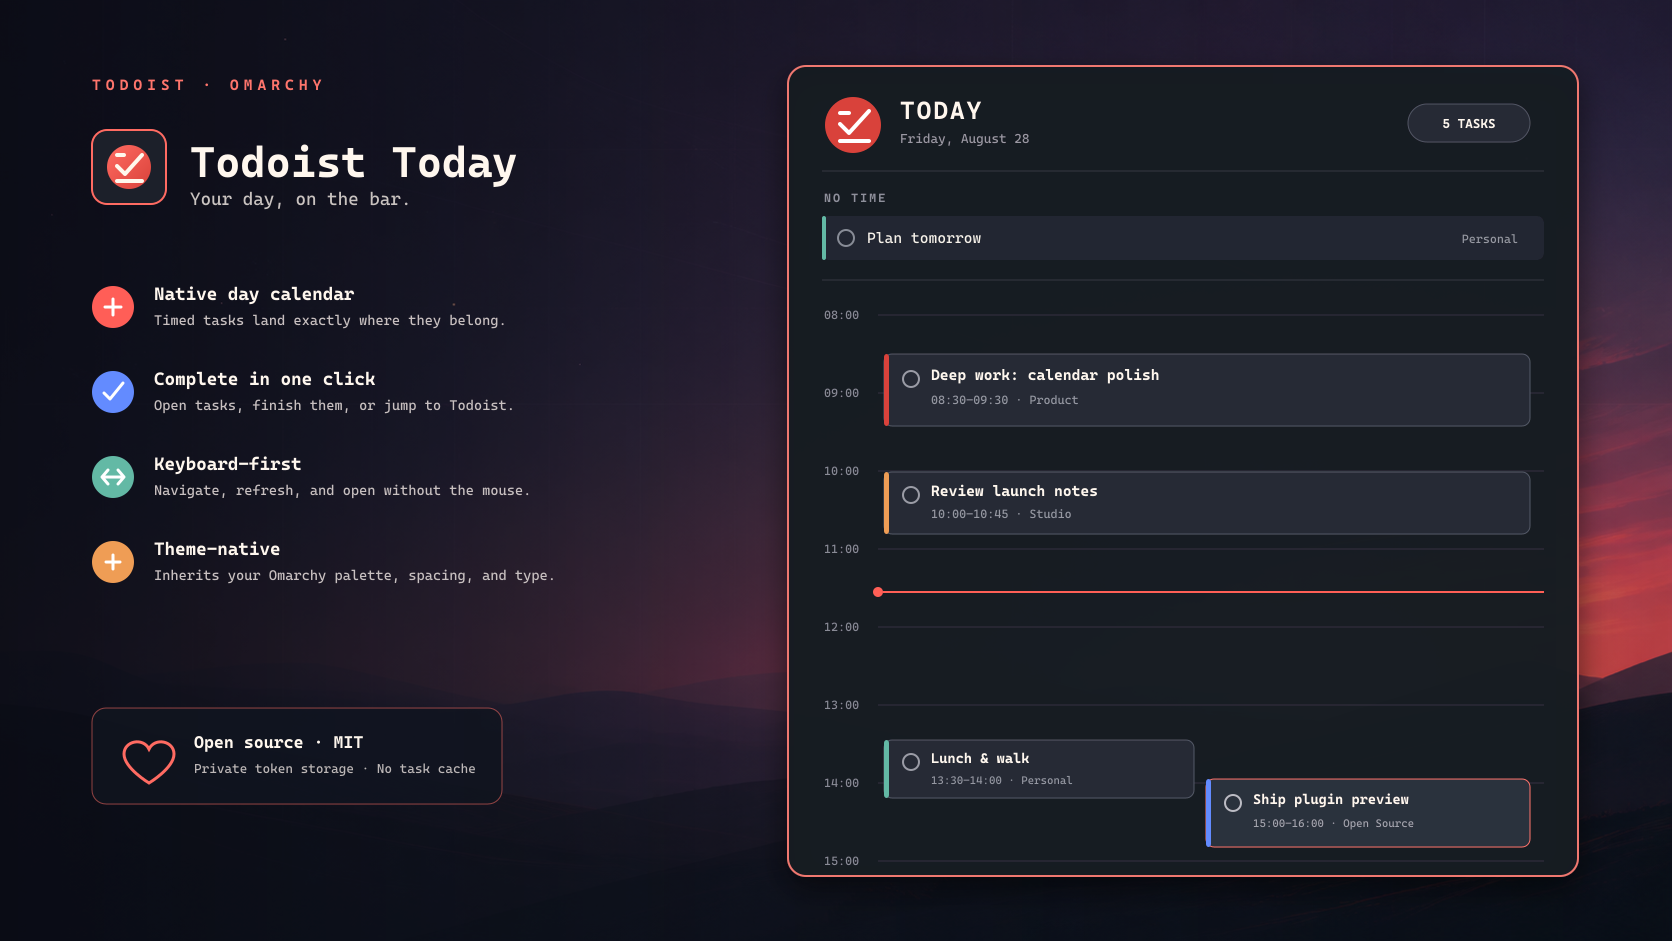
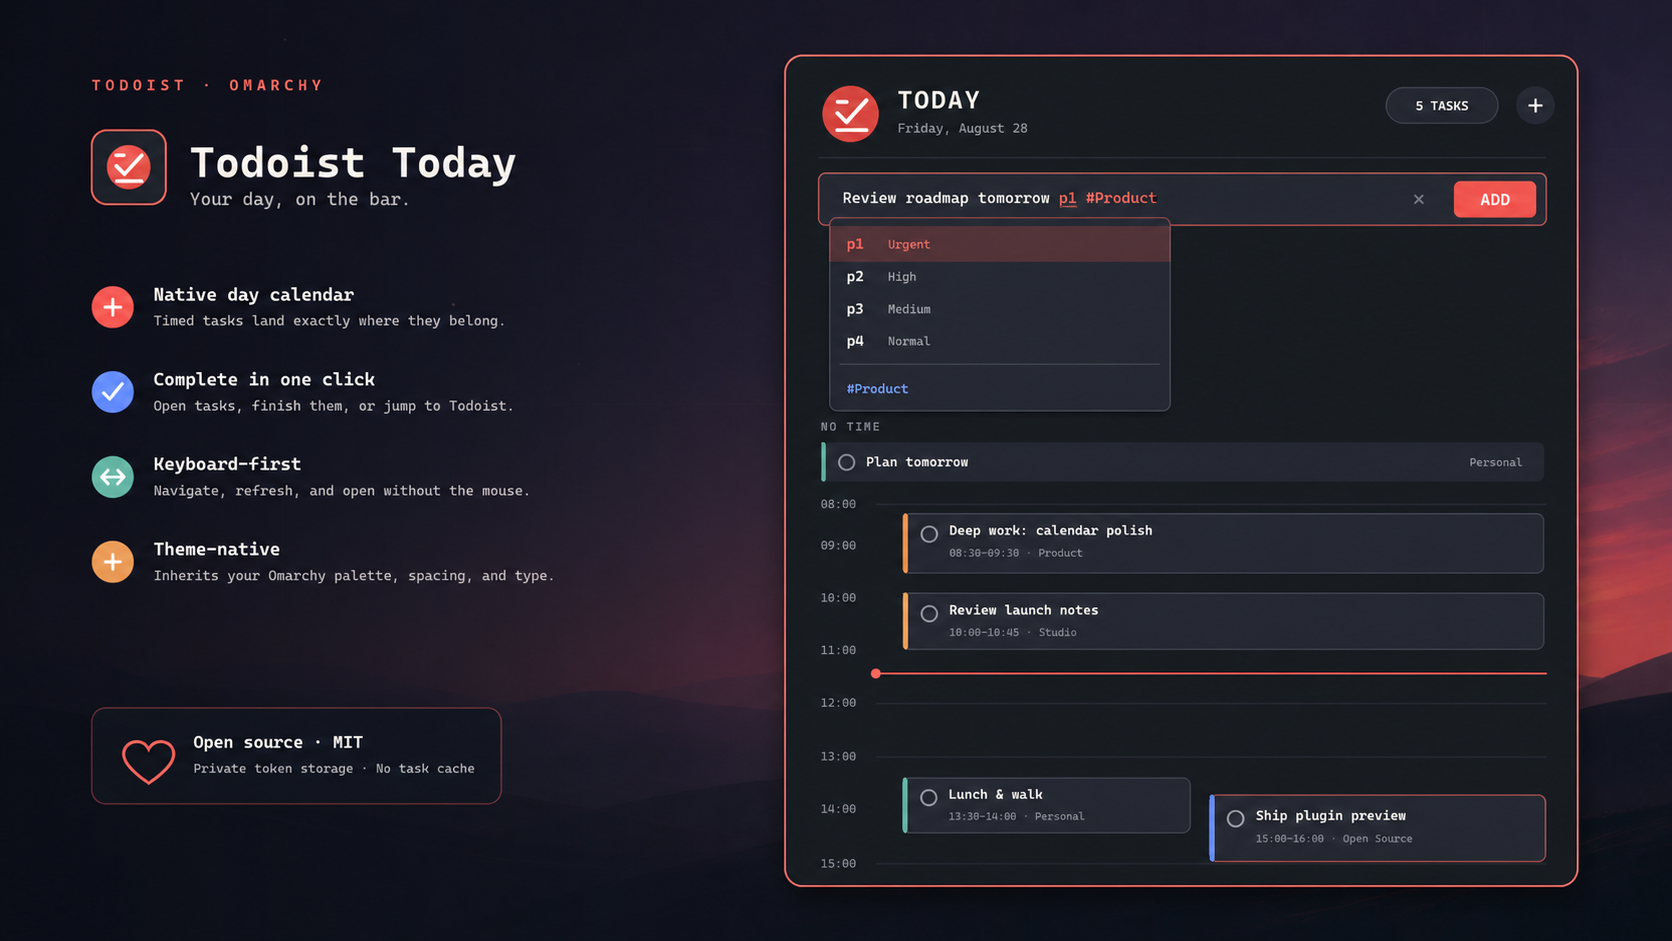
Add Quick Add autocomplete suggestions

diff --git a/Panel.qml b/Panel.qml
@@ -27,6 +27,12 @@ Panel {
   property bool quickAddOpen: false
   property bool quickAdding: false
   property string quickAddError: ""
+  property var quickAddProjects: []
+  property bool quickAddProjectsLoaded: false
+  property bool quickAddProjectsLoading: false
+  property var quickAddSuggestions: []
+  property int quickAddSuggestionIndex: 0
+  property int quickAddFragmentStart: 0
   property date now: new Date()
 
   readonly property int taskCount: tasks.length
@@ -140,7 +146,95 @@ Panel {
   function toggleQuickAdd() {
     root.quickAddOpen = !root.quickAddOpen
     root.quickAddError = ""
-    if (root.quickAddOpen) Qt.callLater(function() { quickAddField.forceActiveFocus() })
+    if (root.quickAddOpen) {
+      root.loadQuickAddProjects()
+      Qt.callLater(function() { quickAddField.forceActiveFocus() })
+    } else {
+      root.quickAddSuggestions = []
+    }
+  }
+
+  function quickAddHelperPath() {
+    return root.helperPath.replace(/todoist$/, "quick-add")
+  }
+
+  function loadQuickAddProjects() {
+    if (root.quickAddProjectsLoaded || root.quickAddProjectsLoading) return
+    root.quickAddProjectsLoading = true
+    quickAddProjectsProcess.command = [root.quickAddHelperPath(), "projects"]
+    quickAddProjectsProcess.running = true
+  }
+
+  function acceptQuickAddProjects(raw) {
+    try {
+      var payload = JSON.parse(String(raw || ""))
+      if (payload.ok !== true || !Array.isArray(payload.projects)) {
+        root.quickAddError = String(payload.message || "Could not load projects")
+        return
+      }
+      root.quickAddProjects = payload.projects
+      root.quickAddProjectsLoaded = true
+      root.updateQuickAddSuggestions()
+    } catch (e) {
+      root.quickAddError = "Could not read td projects"
+    }
+  }
+
+  function updateQuickAddSuggestions() {
+    var cursor = quickAddField.cursorPosition
+    var before = String(quickAddField.text || "").slice(0, cursor)
+    var match = before.match(/(?:^|\s)([#p][^\s]*)$/i)
+    var output = []
+    if (!match) {
+      root.quickAddSuggestions = output
+      return
+    }
+    var fragment = match[1]
+    root.quickAddFragmentStart = cursor - fragment.length
+    var lower = fragment.toLowerCase()
+    if (/^p[1-4]?$/.test(lower)) {
+      var priorities = [
+        { value: "p1", label: "p1  Urgent" },
+        { value: "p2", label: "p2  High" },
+        { value: "p3", label: "p3  Medium" },
+        { value: "p4", label: "p4  Normal" }
+      ]
+      for (var p = 0; p < priorities.length; p++)
+        if (priorities[p].value.indexOf(lower) === 0) output.push(priorities[p])
+    } else if (fragment.charAt(0) === "#") {
+      var query = fragment.slice(1).toLowerCase()
+      for (var i = 0; i < root.quickAddProjects.length && output.length < 8; i++) {
+        var name = String(root.quickAddProjects[i])
+        if (query === "" || name.toLowerCase().indexOf(query) >= 0)
+          output.push({
+            value: "#" + name.replace(/\\/g, "\\\\").replace(/\s/g, "\\ "),
+            label: "#" + name
+          })
+      }
+    }
+    root.quickAddSuggestions = output
+    root.quickAddSuggestionIndex = 0
+  }
+
+  function moveQuickAddSuggestion(delta) {
+    if (root.quickAddSuggestions.length === 0) return false
+    root.quickAddSuggestionIndex = (root.quickAddSuggestionIndex + delta
+      + root.quickAddSuggestions.length) % root.quickAddSuggestions.length
+    return true
+  }
+
+  function acceptQuickAddSuggestion(index) {
+    var target = index === undefined ? root.quickAddSuggestionIndex : Number(index)
+    if (target < 0 || target >= root.quickAddSuggestions.length) return false
+    var cursor = quickAddField.cursorPosition
+    var text = String(quickAddField.text || "")
+    var value = root.quickAddSuggestions[target].value
+    var suffix = text.slice(cursor)
+    var spacer = suffix.charAt(0) === " " ? "" : " "
+    quickAddField.text = text.slice(0, root.quickAddFragmentStart) + value + spacer + suffix
+    quickAddField.cursorPosition = root.quickAddFragmentStart + value.length + spacer.length
+    root.quickAddSuggestions = []
+    return true
   }
 
   function addTask() {
@@ -149,7 +243,7 @@ Panel {
     root.quickAdding = true
     root.quickAddError = ""
     quickAddProcess.pendingText = text
-    quickAddProcess.command = [root.helperPath.replace(/todoist$/, "quick-add")]
+    quickAddProcess.command = [root.quickAddHelperPath(), "add"]
     quickAddProcess.running = true
   }
 
@@ -258,6 +352,20 @@ Panel {
     onExited: function(code) {
       root.quickAdding = false
       if (code !== 0 && root.quickAddError === "") root.quickAddError = "td could not add the task"
+    }
+  }
+
+  Process {
+    id: quickAddProjectsProcess
+    stdout: StdioCollector {
+      waitForEnd: true
+      onStreamFinished: root.acceptQuickAddProjects(text)
+    }
+    stderr: StdioCollector { waitForEnd: true }
+    onExited: function(code) {
+      root.quickAddProjectsLoading = false
+      if (code !== 0 && !root.quickAddProjectsLoaded && root.quickAddError === "")
+        root.quickAddError = "td could not load projects"
     }
   }
 
@@ -462,7 +570,25 @@ Panel {
                 foreground: root.foreground
                 accent: root.accent
                 font.family: root.fontFamily
+                onTextChanged: root.updateQuickAddSuggestions()
+                onCursorPositionChanged: root.updateQuickAddSuggestions()
                 onAccepted: root.addTask()
+
+                Keys.onPressed: function(event) {
+                  if (event.key === Qt.Key_Up && root.moveQuickAddSuggestion(-1)) {
+                    event.accepted = true
+                  } else if (event.key === Qt.Key_Down && root.moveQuickAddSuggestion(1)) {
+                    event.accepted = true
+                  } else if ((event.key === Qt.Key_Tab || event.key === Qt.Key_Return
+                              || event.key === Qt.Key_Enter)
+                             && root.quickAddSuggestions.length > 0) {
+                    root.acceptQuickAddSuggestion()
+                    event.accepted = true
+                  } else if (event.key === Qt.Key_Escape && root.quickAddSuggestions.length > 0) {
+                    root.quickAddSuggestions = []
+                    event.accepted = true
+                  }
+                }
               }
 
               Button {
@@ -475,6 +601,56 @@ Panel {
                 fontFamily: root.fontFamily
                 onClicked: root.addTask()
               }
+            }
+
+            Column {
+              visible: root.quickAddSuggestions.length > 0
+              width: parent.width
+              spacing: Style.space(2)
+
+              Repeater {
+                model: root.quickAddSuggestions
+
+                Rectangle {
+                  required property var modelData
+                  required property int index
+                  width: parent.width
+                  height: Style.space(30)
+                  radius: Style.cornerRadius
+                  color: index === root.quickAddSuggestionIndex || suggestionMouse.containsMouse
+                    ? Style.hoverFillFor(root.foreground, root.accent, root.urgent)
+                    : "transparent"
+
+                  Text {
+                    anchors.left: parent.left
+                    anchors.leftMargin: Style.space(9)
+                    anchors.verticalCenter: parent.verticalCenter
+                    text: modelData.label
+                    color: root.foreground
+                    font.family: root.fontFamily
+                    font.pixelSize: Style.font.body
+                  }
+
+                  MouseArea {
+                    id: suggestionMouse
+                    anchors.fill: parent
+                    hoverEnabled: true
+                    cursorShape: Qt.PointingHandCursor
+                    onEntered: root.quickAddSuggestionIndex = index
+                    onClicked: root.acceptQuickAddSuggestion(index)
+                  }
+                }
+              }
+            }
+
+            Text {
+              visible: root.quickAddProjectsLoading
+                && quickAddField.text.slice(0, quickAddField.cursorPosition).match(/(?:^|\s)#[^\s]*$/)
+              width: parent.width
+              text: "Loading projects from td…"
+              color: root.dim
+              font.family: root.fontFamily
+              font.pixelSize: Style.font.caption
             }
 
             Text {

diff --git a/README.md b/README.md
@@ -40,7 +40,9 @@ td auth login
 - Middle-click refreshes; right-click opens Todoist Today.
 - Click a task to open it, or its circle to complete it.
 - Click `+` in the panel to add a task with Todoist Quick Add syntax through
-  the official `td` CLI. Task text is sent to the helper over stdin.
+  the official `td` CLI. Task text is sent to the helper over stdin. Typing
+  `p` suggests priorities, while `#` searches projects fetched through `td`;
+  use Up/Down and Tab or Enter to accept a suggestion.
 - Use `j`/`k` and Enter in the panel, or `r` (refresh), `n` (now), `o` (open), and Escape.
 
 The panel refreshes every five minutes and when opened after two minutes of
